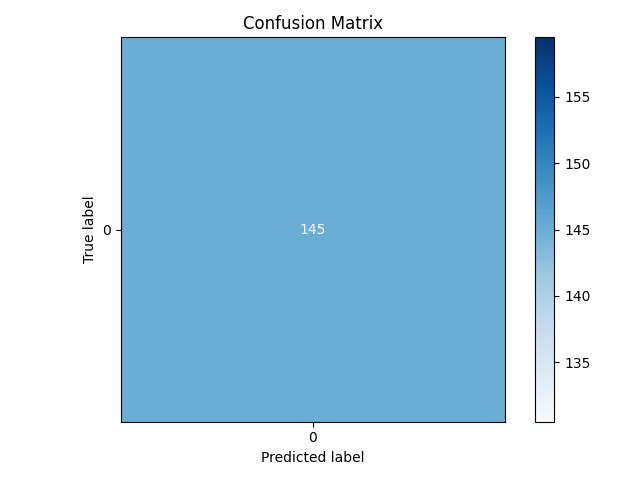
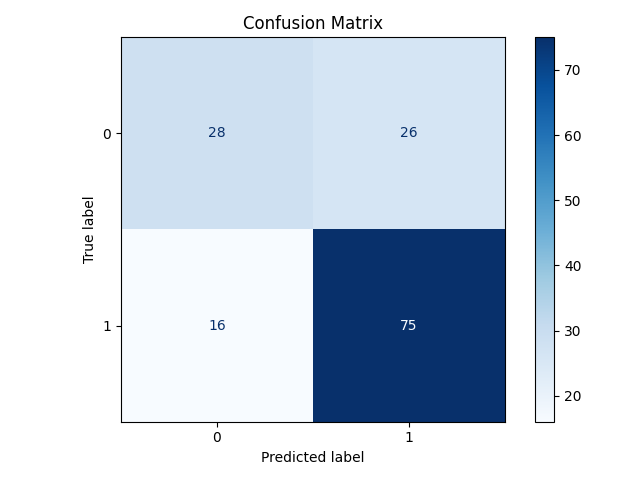
finalizacao pipeline model

diff --git a/src/model_pipeline/pipeline.py b/src/model_pipeline/pipeline.py
@@ -9,20 +9,23 @@ logging.basicConfig(level=logging.INFO)
 def run_pipeline_model(acc_limiar=0.70, recall_limiar=0.70, precision_limiar=0.70):
 
     try:
-        logging.info("Iniciando pipeline...")
+        logging.info("Iniciando pipeline.")
+        logging.info("Buscando métricas do mlflow.")
 
-        # pegar as métricas do último run salvo no mlflow
-        logging.info("Buscando métricas do mlflow...")
+        experiment = mlflow.get_experiment_by_name("esg-maturity-evaluate")
         client = mlflow.tracking.MlflowClient()
         runs = client.search_runs(
-            experiment_ids=["0"],  
+            experiment_ids=[experiment.experiment_id],
             order_by=["start_time DESC"],
             max_results=1
         )
 
         if not runs:
-            logging.info("Nenhum run encontrado no mlflow, avaliando modelo do zero...")
+            logging.info("Nenhum run encontrado no mlflow, avaliando modelo do zero.")
             metrics = evaluate_xgb_model()
+            if metrics is None:
+                logging.error("Falha na avaliação inicial do modelo.")
+                return None
         else:
             ultimo_run = runs[0]
             metrics = {
@@ -43,22 +46,20 @@ def run_pipeline_model(acc_limiar=0.70, recall_limiar=0.70, precision_limiar=0.7
             logging.info("Modelo ok! Métricas dentro do esperado.")
             return metrics
 
-        # não passou, então vou retreinar
-        logging.info("Métricas baixas, retreinando o modelo...")
+        logging.info("Métricas baixas, retreinando o modelo.")
         train_xgb_model()
 
-        # avaliar de novo depois do treino e logar no mlflow
-        logging.info("Avaliando modelo retreinado...")
-        with mlflow.start_run():
-            metrics_novo = evaluate_xgb_model()
-            acc_novo       = metrics_novo["accuracy"]
-            recall_novo    = metrics_novo["recall"]
-            precision_novo = metrics_novo["precision"]
-            logging.info(f"Métricas novas: acc={acc_novo:.2f}, recall={recall_novo:.2f}, precision={precision_novo:.2f}")
+        logging.info("Avaliando modelo retreinado.")
+        metrics_novo = evaluate_xgb_model()
+        if metrics_novo is None:
+            logging.error("Falha na avaliação do modelo retreinado.")
+            return metrics
 
-            mlflow.log_metrics(metrics_novo)
+        acc_novo       = metrics_novo["accuracy"]
+        recall_novo    = metrics_novo["recall"]
+        precision_novo = metrics_novo["precision"]
+        logging.info(f"Métricas novas: acc={acc_novo:.2f}, recall={recall_novo:.2f}, precision={precision_novo:.2f}")
 
-        # ver se o novo ficou melhor do que o antigo
         media_antiga = (acc + recall + precision) / 3
         media_nova   = (acc_novo + recall_novo + precision_novo) / 3
 
@@ -70,4 +71,4 @@ def run_pipeline_model(acc_limiar=0.70, recall_limiar=0.70, precision_limiar=0.7
             return metrics
 
     except Exception as e:
-        logging.error(f"Deu erro no pipeline: {e}")
+        logging.error(e)

diff --git a/src/model_evaluation/xgb_evaluate.py b/src/model_evaluation/xgb_evaluate.py
@@ -51,7 +51,7 @@ def evaluate_xgb_model() -> XGBClassifier | None:
             plt.tight_layout()
             plt.savefig("assets/confusion_matrix.png")
             plt.close()
-            mlflow.log_artifact("confusion_matrix.png")
+            mlflow.log_artifact("assets/confusion_matrix.png")
 
             mlflow.sklearn.log_model(model, "xgb_model")
 